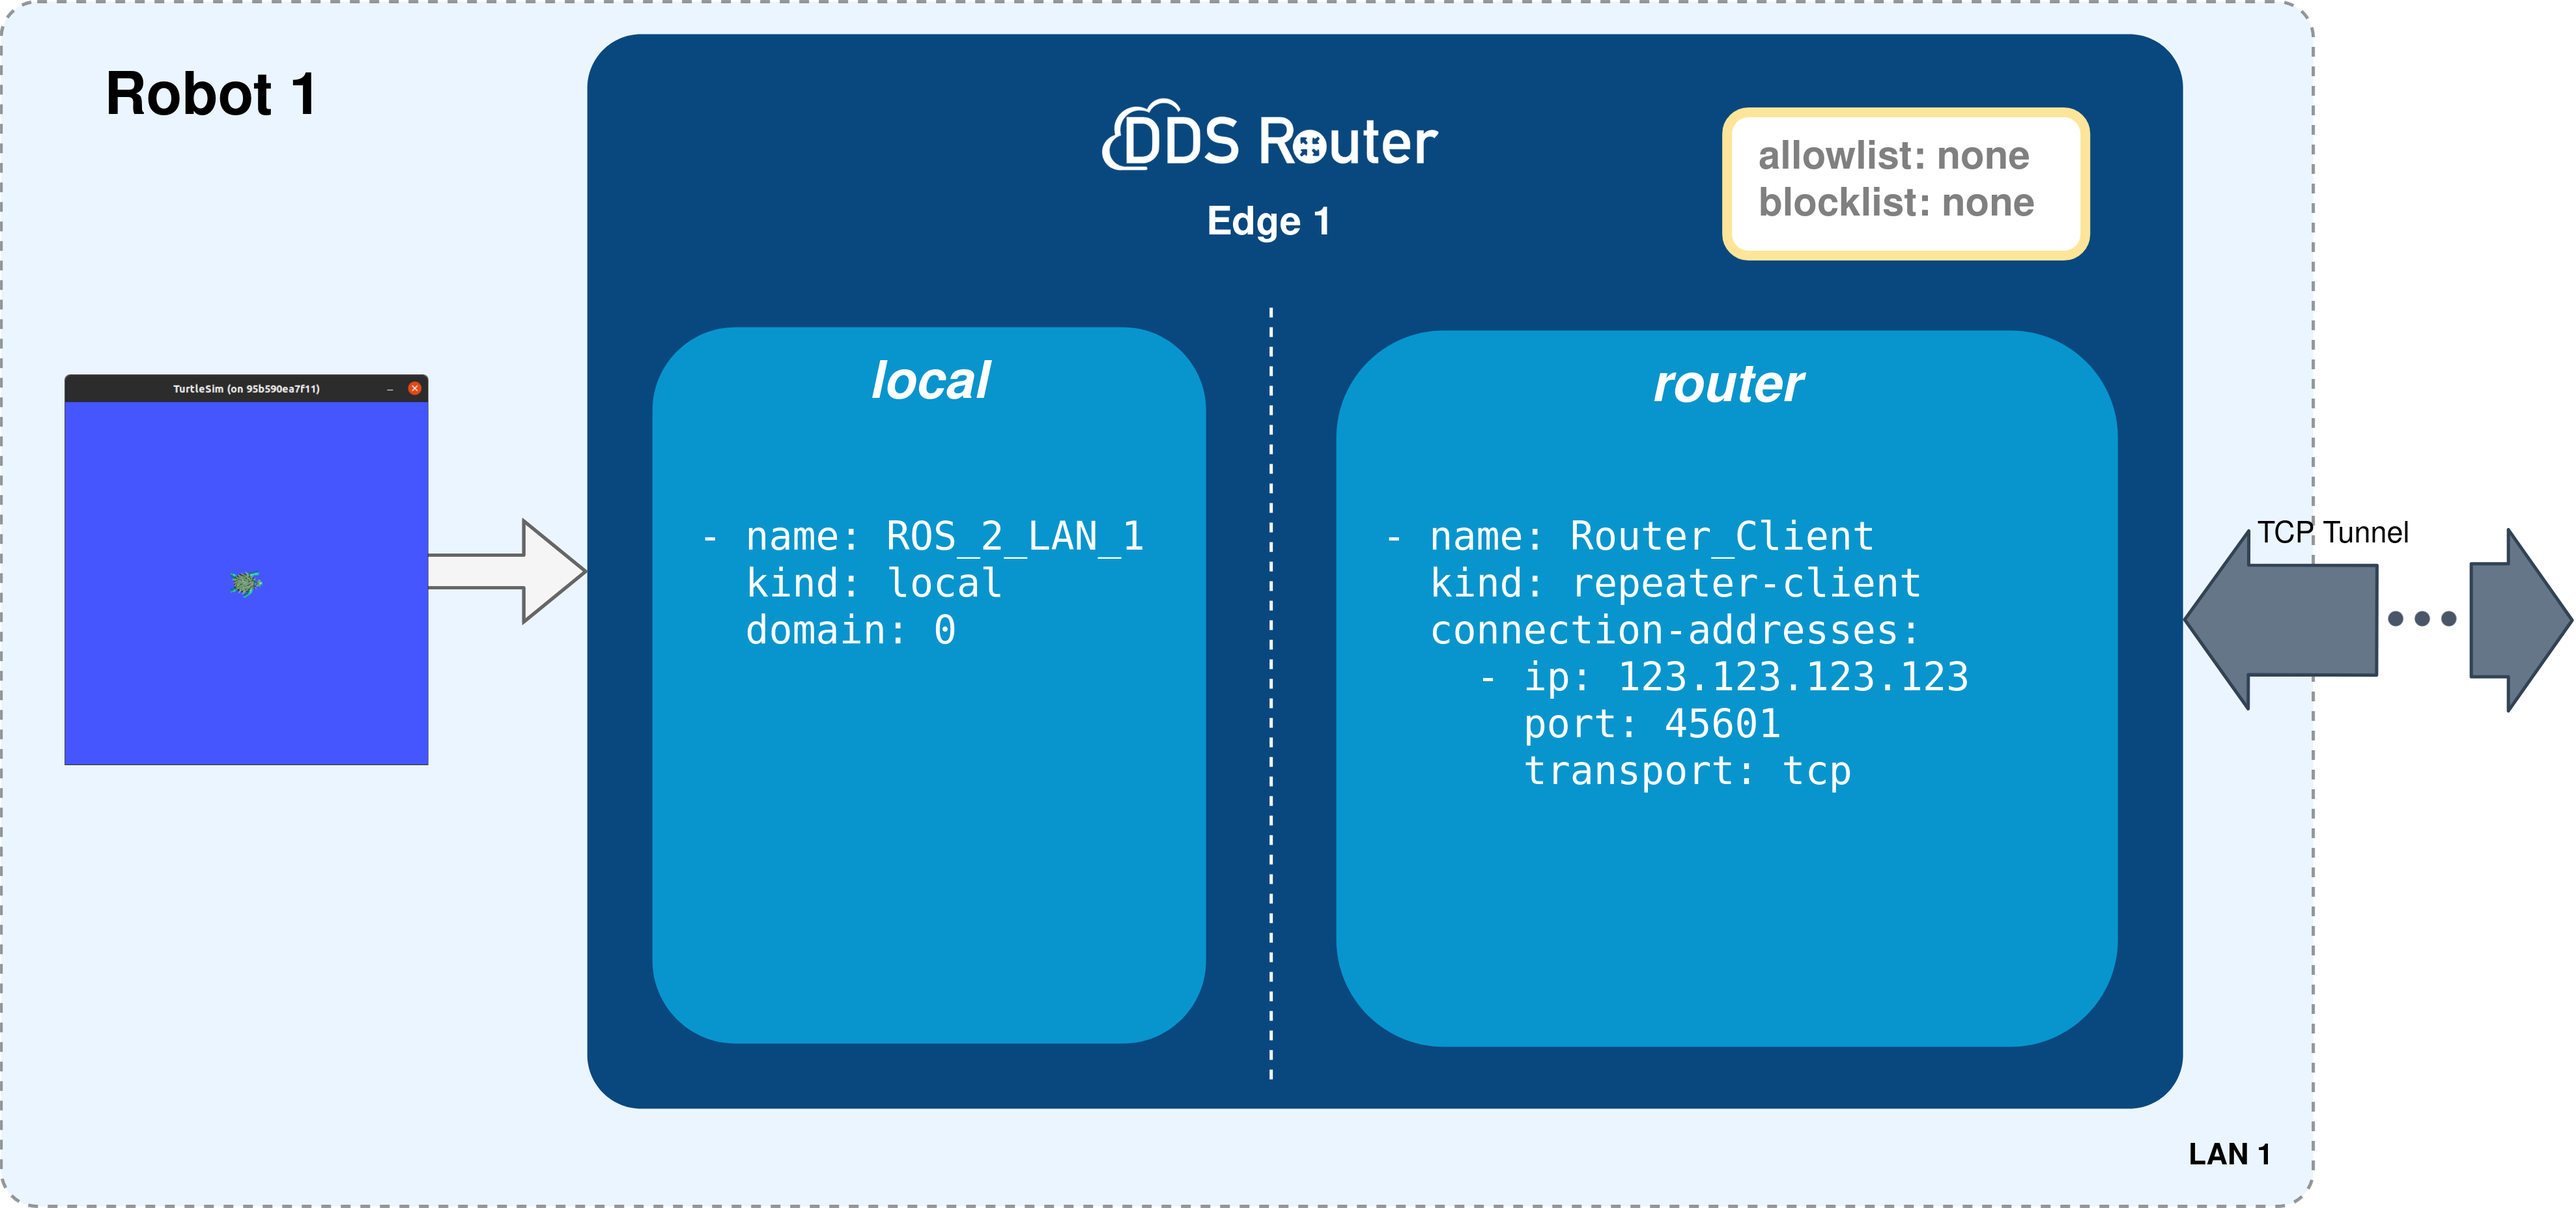
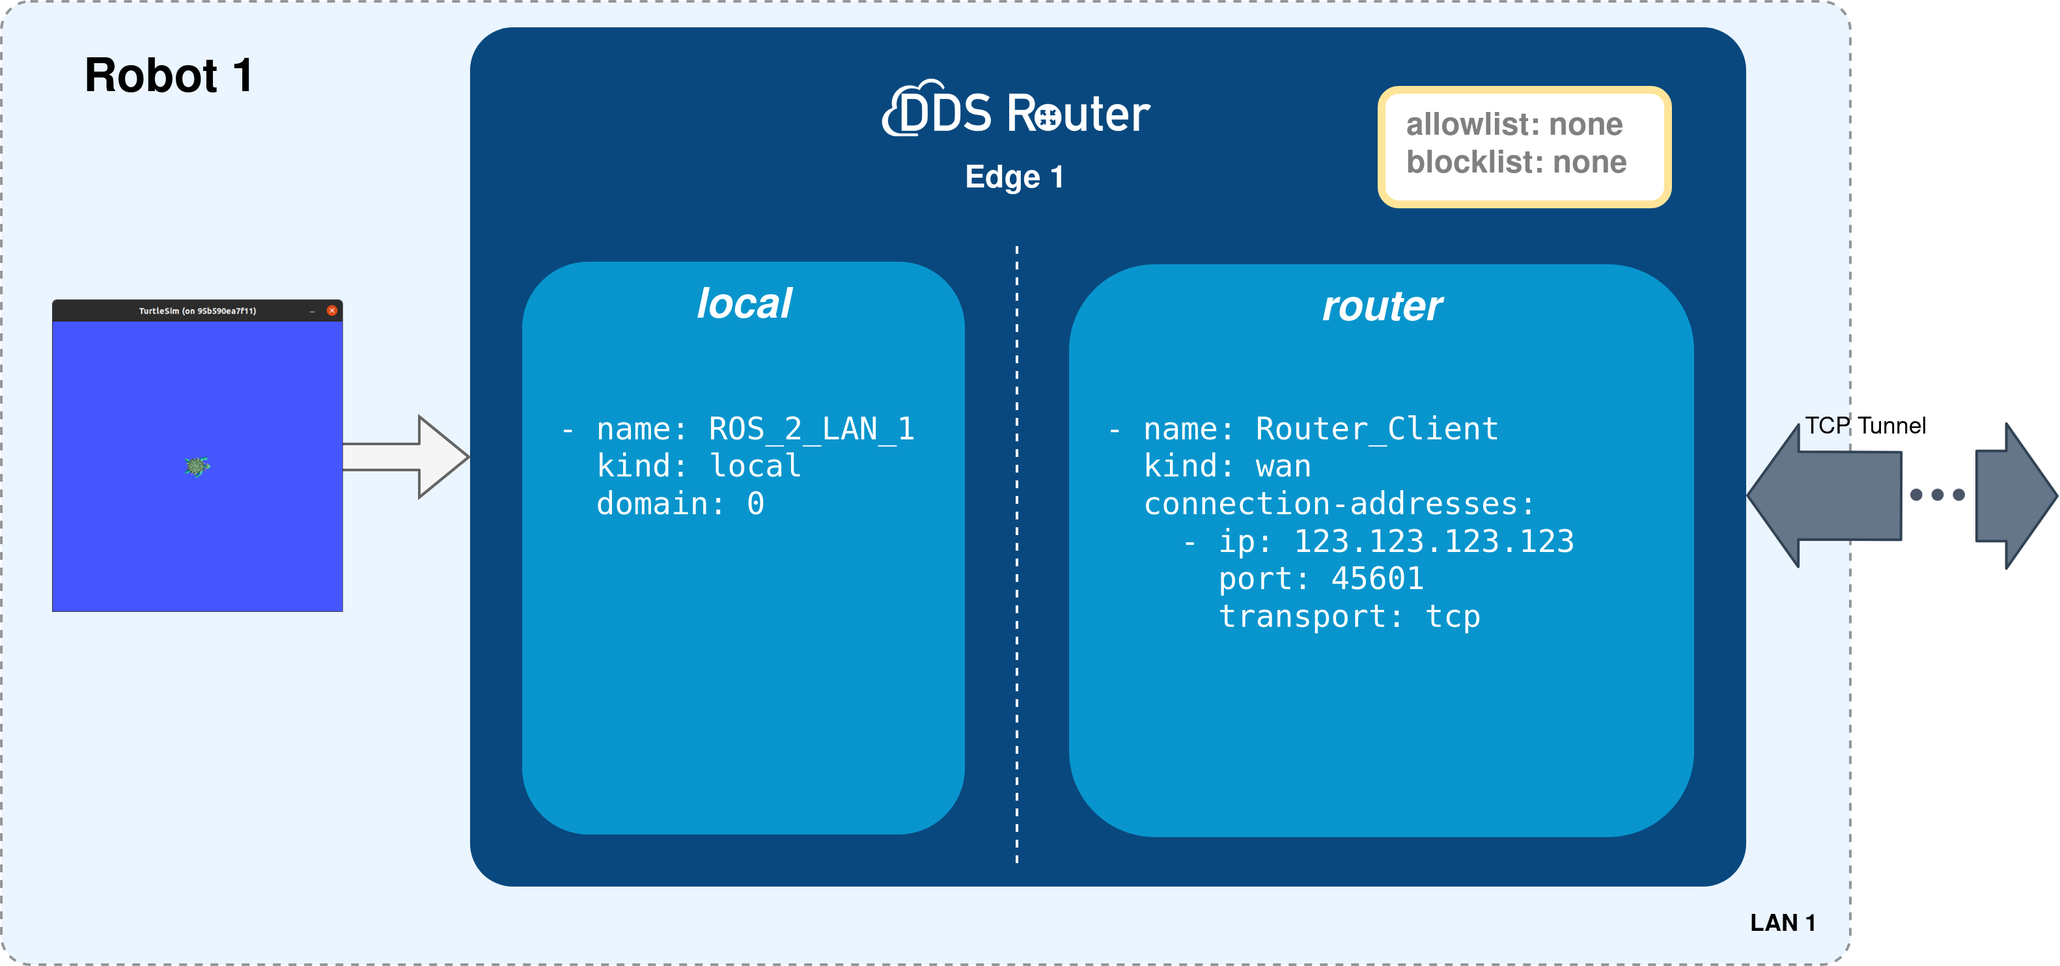
Update to configuration v3

diff --git a/docs/rst/tutorials/cloud/edge_edge_repeater_cloud/edge_edge_repeater_cloud.rst b/docs/rst/tutorials/cloud/edge_edge_repeater_cloud/edge_edge_repeater_cloud.rst
@@ -69,8 +69,8 @@ Several key elements can be observed in it:
 Prerequisites
 -------------
 
-This tutorial will require two machines (*Robot 1* and *Cloud Server*) deployed on different networks (*LAN 1* and *Cloud*).
-It is possible to simulate the scenario by deploying everything needed on the same machine and two virtual networks but let's focus on the case of a real deployment.
+This tutorial will require three machines (*Robot 1*, *Controller 1* and *Cloud Server*) deployed on different networks (*LAN 1*, *LAN 2* and *Cloud*).
+It is possible to simulate the scenario by deploying everything needed on the same machine and three virtual networks but let's focus on the case of a real deployment.
 
 It is also necessary to have previously installed Vulcanexus using one of the following installation methods:
 
@@ -160,10 +160,10 @@ Next, the most relevant aspects of this configuration file are explained.
 
 The ``participants`` are the interfaces of the DDS Router to communicate with other networks. In this case, we have two participants:
 
-    *   ``local``: this is a simple participant that communicates with all ROS 2 nodes it finds in domain 0.
+    *   ``ROS_2_LAN_1``: this is a simple participant that communicates with all ROS 2 nodes it finds in domain 0.
         For more information about this participant please refer to the `Simple Participant section <https://eprosima-dds-router.readthedocs.io/en/latest/rst/user_manual/participants/simple.html#user-manual-participants-simple>`_ of the DDS Router documentation.
 
-    *   ``repeater-client``: it is a participant designed to communicate with a Repeater Participant.
+    *   ``Router_Client``: it is a participant designed to communicate with a WAN Participant configured as repeater.
         It uses the `Fast DDS Initial Peers discovery mechanism <https://fast-dds.docs.eprosima.com/en/latest/fastdds/discovery/simple.html#initial-peers>`_ to establish a point-to-point communication between two DDS entities, two *DDS Routers* in this case.
 
     For the DDS Router Edge, a connection address shall be defined which must be the same as the one exposed by the Cloud Server.
@@ -177,7 +177,7 @@ The ``participants`` are the interfaces of the DDS Router to communicate with ot
     However, it is important to mention that the ROS 2 topics relayed by the DDS Router can be filtered by configuring the ``allowlist`` and ``blocklist``.
     If this is the case please refer to the `DDS Router documentation <https://eprosima-dds-router.readthedocs.io/en/latest/rst/user_manual/configuration.html#topic-filtering>`_ for information on how to do this.
 
-The following figure summarizes the deployment on the edge.
+The following figure summarizes the deployment on the edge 1.
 
 .. figure:: /rst/figures/tutorials/cloud/edge_1_repeater_deployment.png
    :align: center
@@ -289,6 +289,11 @@ Now, run the DDS Router with the configuration file created as an argument.
 .. code-block::
 
     ddsrouter -c <path/to/file>/ddsrouter_edge_2.yaml
+
+The following figure summarizes the deployment on the edge 2.
+
+.. figure:: /rst/figures/tutorials/cloud/edge_2_repeater_deployment.png
+   :align: center
 
 Deployment of Cloud Repeater
 ----------------------------

diff --git a/docs/rst/tutorials/cloud/cloud_tutorials.rst b/docs/rst/tutorials/cloud/cloud_tutorials.rst
@@ -14,5 +14,5 @@ The following are the tutorials that make up this course on communication in dis
 
     kubernetes/kubernetes
     wan_edge_cloud/wan_edge_cloud
-    edge_edge_repeater_cloud/edge_edge_repeater_cloud
     wan_edge_cloud_tls/wan_edge_cloud_tls
+    edge_edge_repeater_cloud/edge_edge_repeater_cloud
